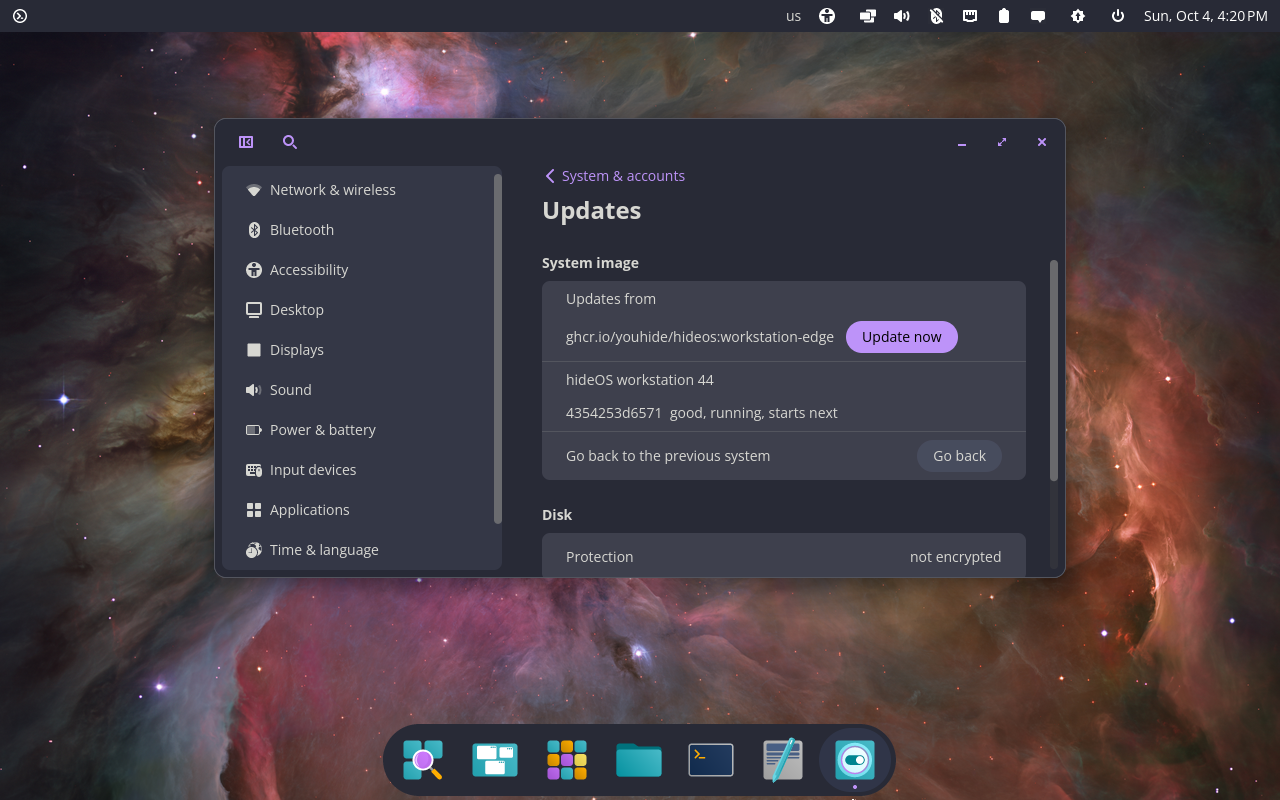
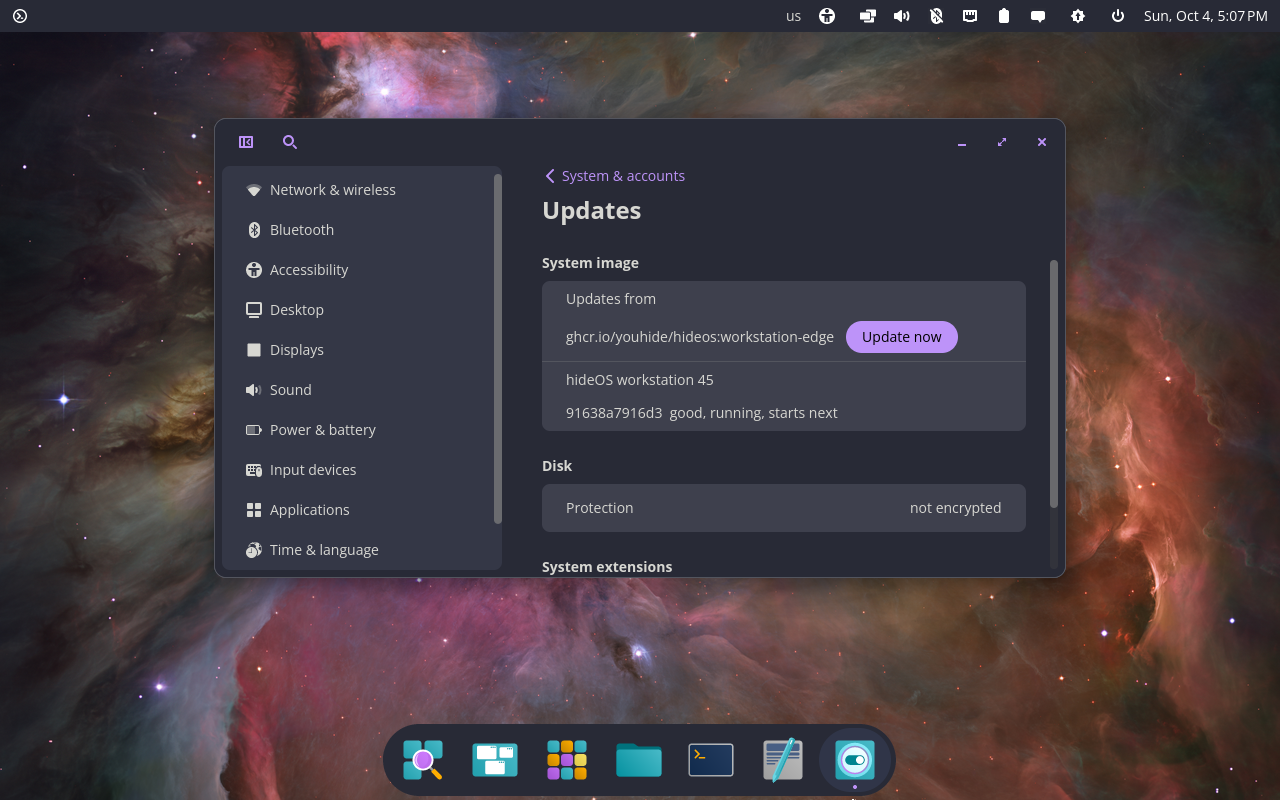
H5: logins suggested with accents folded, and no "Go back" with nothing to go back to
- hidesetup suggests jose for José, as a Mac does, not jos; hide's
  firstboot::suggested_login the same.
- Settings → Updates offers going back only when there is a deployment
  to go back to: a disabled button looked like an enabled one.

diff --git a/crates/hide/src/firstboot.rs b/crates/hide/src/firstboot.rs
@@ -155,22 +155,70 @@ pub fn valid_full_name(name: &str) -> bool {
 }
 
 /// A login suggested from a full name, as a Mac suggests one: the first
-/// name, lowercased, with what a login cannot hold left out. Empty when
+/// name, lowercased, accents folded, with what a login cannot hold left
+/// out. Empty when
 /// nothing is left.
 pub fn suggested_login(full_name: &str) -> String {
     let first = full_name.split_whitespace().next().unwrap_or_default();
     let mut login: String = first
         .chars()
-        .filter_map(|c| match c.to_ascii_lowercase() {
-            c @ ('a'..='z' | '0'..='9' | '-' | '_') => Some(c),
-            _ => None,
-        })
+        .flat_map(char::to_lowercase)
+        .map(fold)
         .collect();
     while login.starts_with(|c: char| !c.is_ascii_lowercase()) {
         login.remove(0);
     }
     login.truncate(32);
     login
+}
+
+/// A letter as a login can hold it: accents folded as a Mac folds them,
+/// José to jose; what has no ASCII letter, nothing.
+fn fold(c: char) -> &'static str {
+    match c {
+        'a' | 'à' | 'á' | 'â' | 'ã' | 'ä' | 'å' | 'ā' | 'ă' | 'ą' => "a",
+        'c' | 'ç' | 'ć' | 'č' => "c",
+        'd' | 'ď' | 'đ' => "d",
+        'e' | 'è' | 'é' | 'ê' | 'ë' | 'ē' | 'ė' | 'ę' | 'ě' => "e",
+        'g' | 'ğ' => "g",
+        'i' | 'ì' | 'í' | 'î' | 'ï' | 'ī' | 'ı' => "i",
+        'l' | 'ł' | 'ľ' => "l",
+        'n' | 'ñ' | 'ń' | 'ň' => "n",
+        'o' | 'ò' | 'ó' | 'ô' | 'õ' | 'ö' | 'ø' | 'ō' | 'ő' => "o",
+        'r' | 'ř' => "r",
+        's' | 'ś' | 'š' | 'ș' | 'ş' => "s",
+        't' | 'ť' | 'ț' | 'ţ' => "t",
+        'u' | 'ù' | 'ú' | 'û' | 'ü' | 'ū' | 'ů' | 'ű' => "u",
+        'y' | 'ý' | 'ÿ' => "y",
+        'z' | 'ź' | 'ż' | 'ž' => "z",
+        'ß' => "ss",
+        'æ' => "ae",
+        'œ' => "oe",
+        'b' => "b",
+        'f' => "f",
+        'h' => "h",
+        'j' => "j",
+        'k' => "k",
+        'm' => "m",
+        'p' => "p",
+        'q' => "q",
+        'v' => "v",
+        'w' => "w",
+        'x' => "x",
+        '0' => "0",
+        '1' => "1",
+        '2' => "2",
+        '3' => "3",
+        '4' => "4",
+        '5' => "5",
+        '6' => "6",
+        '7' => "7",
+        '8' => "8",
+        '9' => "9",
+        '-' => "-",
+        '_' => "_",
+        _ => "",
+    }
 }
 
 #[cfg(test)]
@@ -234,7 +282,8 @@ mod tests {
     #[test]
     fn logins_are_suggested_from_the_first_name() {
         assert_eq!(suggested_login("Youri Mattar"), "youri");
-        assert_eq!(suggested_login("José Silva"), "jos");
+        assert_eq!(suggested_login("José Silva"), "jose");
+        assert_eq!(suggested_login("Øyvind Łukasz"), "oyvind");
         assert_eq!(suggested_login("1st Name"), "st");
         assert_eq!(suggested_login(""), "");
         assert!(valid_full_name("Youri T. K. K. Mattar"));

diff --git a/crates/hidesetup/src/main.rs b/crates/hidesetup/src/main.rs
@@ -710,17 +710,68 @@ fn valid_login(name: &str) -> bool {
         && chars.all(|c| matches!(c, 'a'..='z' | '0'..='9' | '-' | '_'))
 }
 
-/// The first name, lowercased, with what a login cannot hold left out.
+/// The first name, lowercased, accents folded, with what a login cannot
+/// hold left out — as `hide::firstboot::suggested_login`, which hideupd
+/// would check it against.
 fn suggested_login(full_name: &str) -> String {
     let first = full_name.split_whitespace().next().unwrap_or_default();
     let login: String = first
         .chars()
-        .filter_map(|c| match c.to_ascii_lowercase() {
-            c @ ('a'..='z' | '0'..='9' | '-' | '_') => Some(c),
-            _ => None,
-        })
-        .skip_while(|c| !c.is_ascii_lowercase())
-        .take(32)
+        .flat_map(char::to_lowercase)
+        .map(fold)
         .collect();
     login
+        .trim_start_matches(|c: char| !c.is_ascii_lowercase())
+        .chars()
+        .take(32)
+        .collect()
+}
+
+/// A letter as a login can hold it: accents folded as a Mac folds them,
+/// José to jose; what has no ASCII letter, nothing.
+fn fold(c: char) -> &'static str {
+    match c {
+        'a' | 'à' | 'á' | 'â' | 'ã' | 'ä' | 'å' | 'ā' | 'ă' | 'ą' => "a",
+        'c' | 'ç' | 'ć' | 'č' => "c",
+        'd' | 'ď' | 'đ' => "d",
+        'e' | 'è' | 'é' | 'ê' | 'ë' | 'ē' | 'ė' | 'ę' | 'ě' => "e",
+        'g' | 'ğ' => "g",
+        'i' | 'ì' | 'í' | 'î' | 'ï' | 'ī' | 'ı' => "i",
+        'l' | 'ł' | 'ľ' => "l",
+        'n' | 'ñ' | 'ń' | 'ň' => "n",
+        'o' | 'ò' | 'ó' | 'ô' | 'õ' | 'ö' | 'ø' | 'ō' | 'ő' => "o",
+        'r' | 'ř' => "r",
+        's' | 'ś' | 'š' | 'ș' | 'ş' => "s",
+        't' | 'ť' | 'ț' | 'ţ' => "t",
+        'u' | 'ù' | 'ú' | 'û' | 'ü' | 'ū' | 'ů' | 'ű' => "u",
+        'y' | 'ý' | 'ÿ' => "y",
+        'z' | 'ź' | 'ż' | 'ž' => "z",
+        'ß' => "ss",
+        'æ' => "ae",
+        'œ' => "oe",
+        'b' => "b",
+        'f' => "f",
+        'h' => "h",
+        'j' => "j",
+        'k' => "k",
+        'm' => "m",
+        'p' => "p",
+        'q' => "q",
+        'v' => "v",
+        'w' => "w",
+        'x' => "x",
+        '0' => "0",
+        '1' => "1",
+        '2' => "2",
+        '3' => "3",
+        '4' => "4",
+        '5' => "5",
+        '6' => "6",
+        '7' => "7",
+        '8' => "8",
+        '9' => "9",
+        '-' => "-",
+        '_' => "_",
+        _ => "",
+    }
 }
